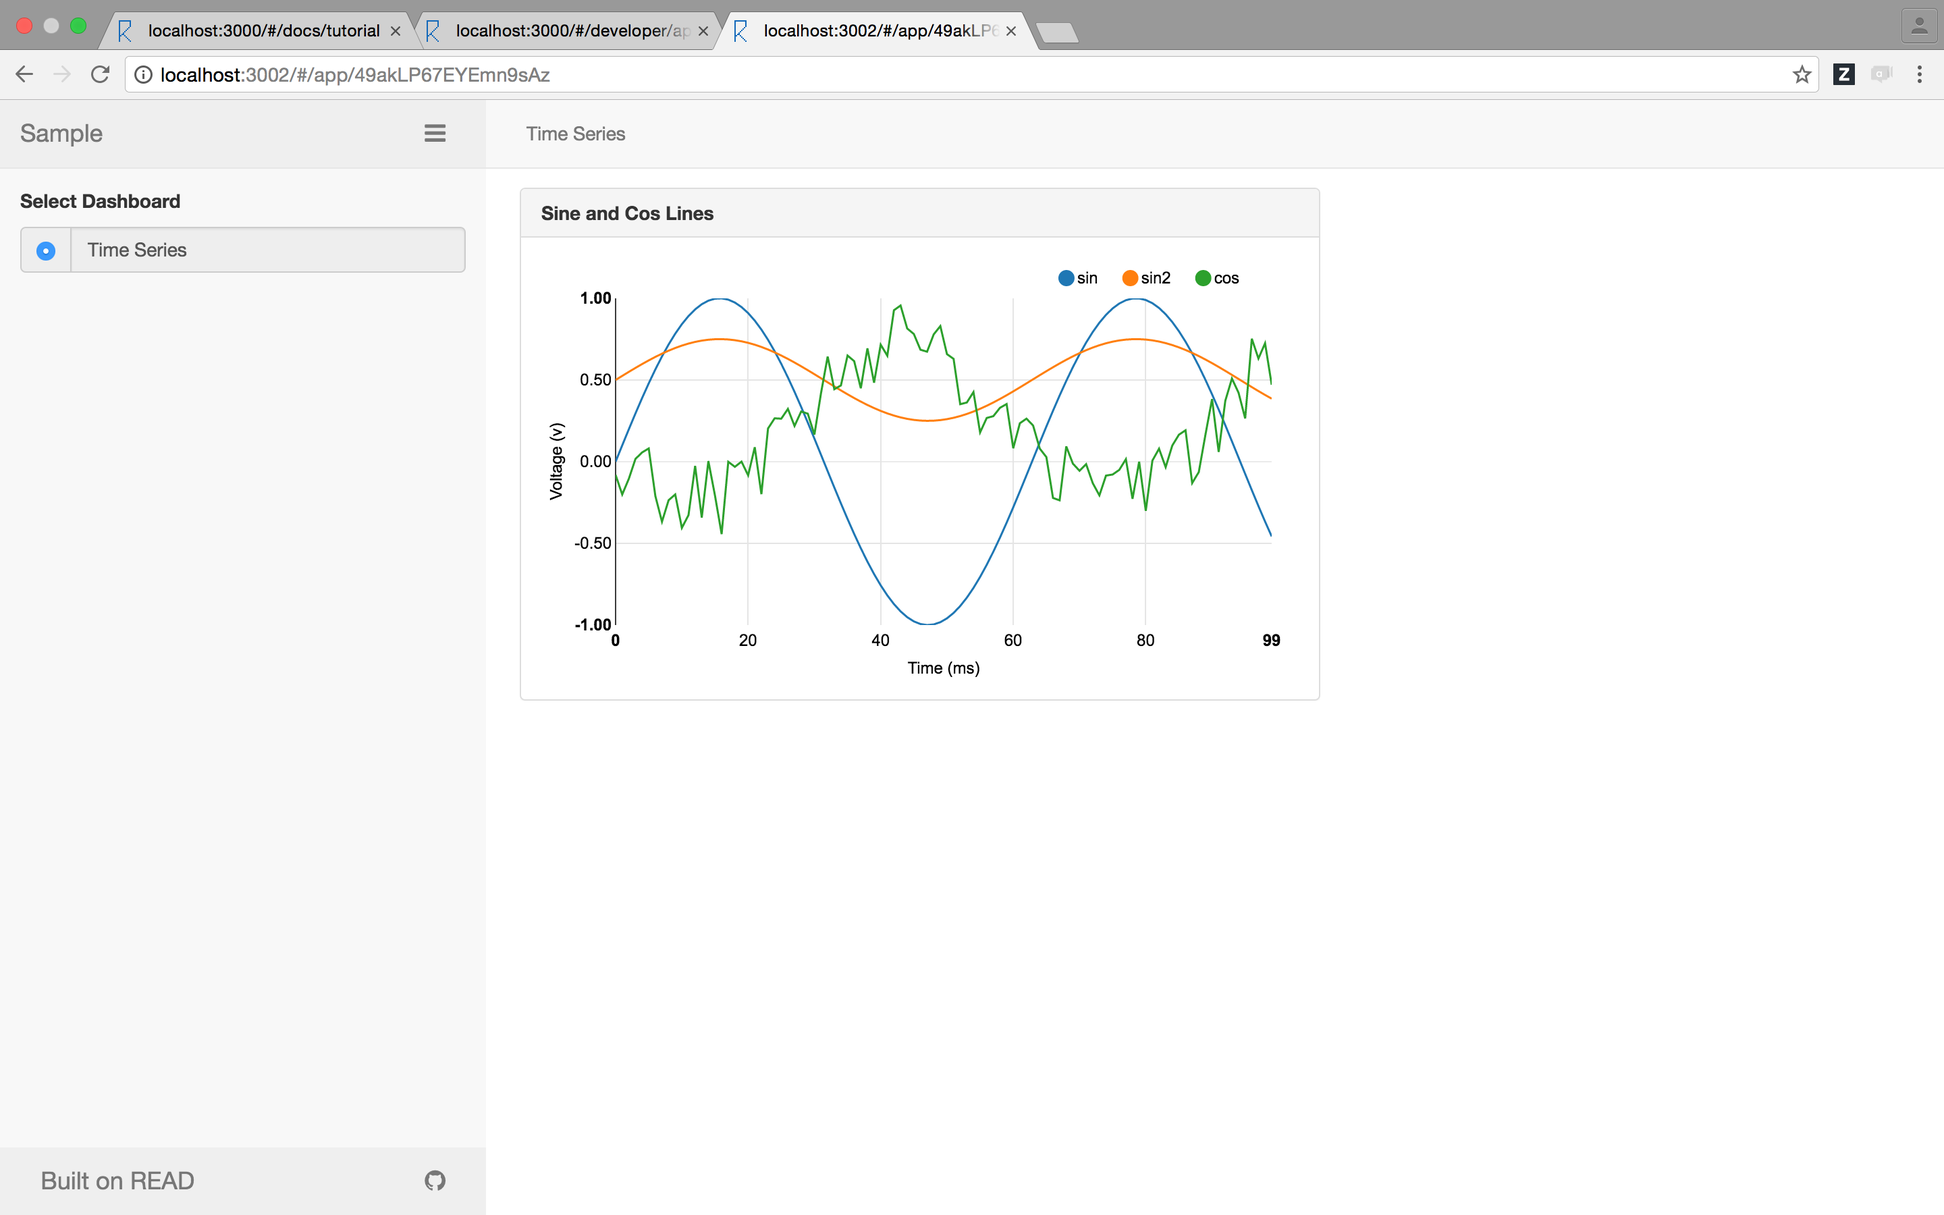
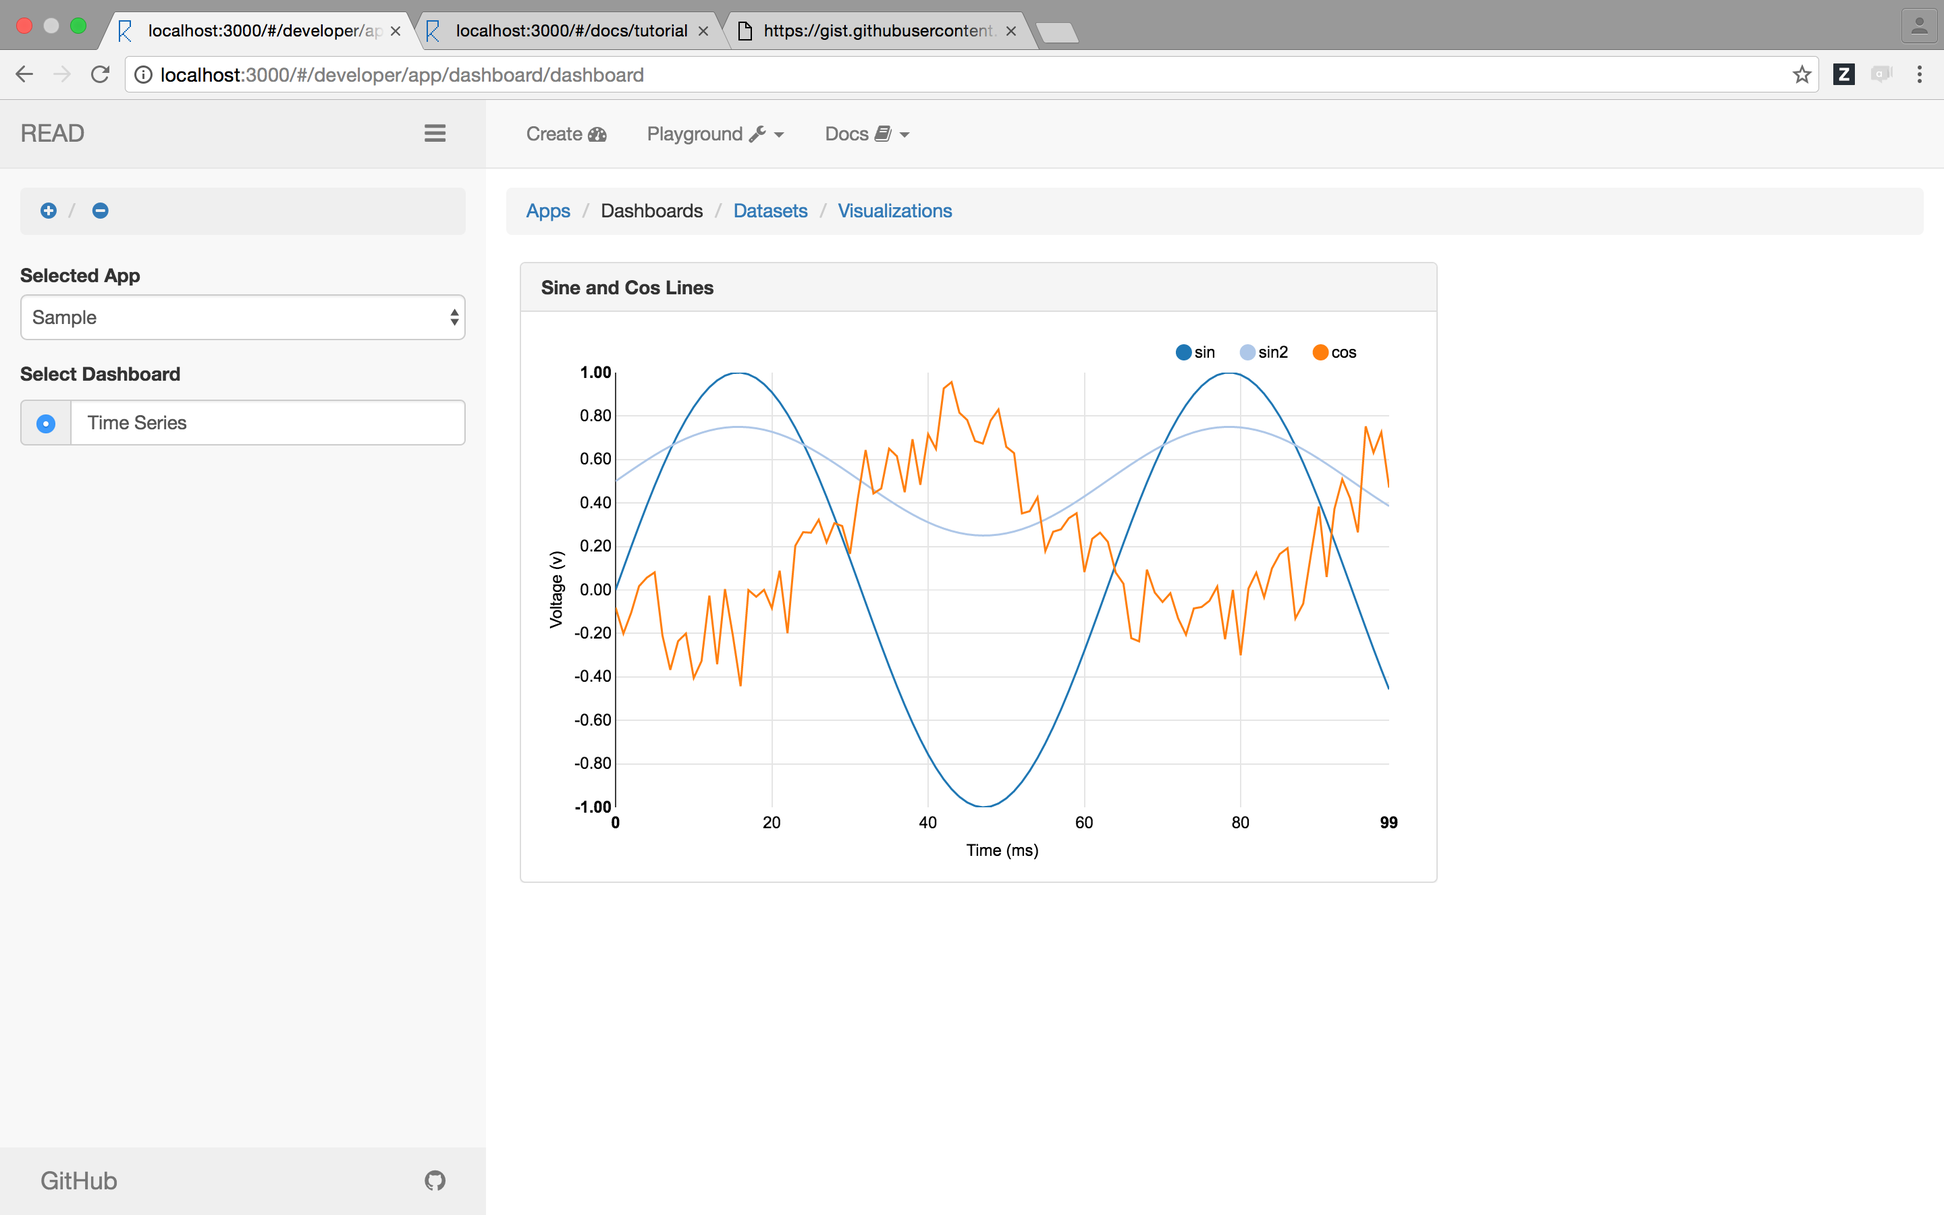
exercises

diff --git a/READ.meteor/imports/ui/pages/docs/tutorial/cars/createapp.html b/READ.meteor/imports/ui/pages/docs/tutorial/cars/createapp.html
@@ -1,41 +1,94 @@
 <h3>Variety</h3>
 <blockquote>
-  <p>In this section, we will work with more ways of visualizing and transforming data</p>
+  <p>In this section, we will explore more types of visualizations and data transforms</p>
 </blockquote>
 
 <div class="row">
-  <div class="col-sm-6 col-md-6">
-    <div class="thumbnail">
-      <a href="javascript:void(0)" ng-click="mainContentCtrl.openModel('/images/tutorial/cars/createapp.1.png')">
-        <img src="/images/tutorial/cars/createapp.1.png" alt="App Creation"></img>
-      </a>
-      <div class="caption">
-        <h4>Create Cars Dataset</h4>
-        <p class="word-wrap">Create <code>Cars</code> dashboard. Create <code>Cars</code> dataset within the dashboard
+  <div class="col-sm-6 col-md-3">
+      <div class="thumbnail">
+        <a href="javascript:void(0)" ng-click="mainContentCtrl.openModel('/images/tutorial/cars/createapp.1.png')">
+          <img src="/images/tutorial/cars/createapp.1.png" alt="Visualization Creation"></img>
+        </a>
+        <h4>Scatter Plot</h4>
+        <p class="word-wrap">Create <code>Variety</code> dashboard. Create <code>Cars</code> dataset within the dashboard
           using <a target="_blank" href="https://gist.githubusercontent.com/sriumcp/ebe66fbd4bb1f5b16feb0a9e7543f1b5/raw/5fda9a1537b75b1c059b9ce89ee309858dcba737/cars">this url</a>.
-        </p></div>
-    </div>
-  </div>
-
-  <div class="col-sm-6 col-md-6">
-    <div class="thumbnail">
-      <a href="javascript:void(0)" ng-click="mainContentCtrl.openModel('/images/tutorial/cars/createapp.2.png')">
-        <img src="/images/tutorial/cars/createapp.2.png" alt="Visualization Creation"></img>
-      </a>
-      <div class="caption">
-        <h4>Create Scatter Plot</h4>
+        </p>
         <p class="word-wrap">Create visualization <code>Horsepower vs. Weight</code> of type <strong>scatter</strong>.
           Use <a target="_blank" href="https://gist.githubusercontent.com/sriumcp/bcd3b4130cf2cd1bb5a2140d7d807d71/raw/779269b6c5f23824da9cc468d8e6278533d7033c/basicoptions.js">this</a> as the basic options for the chart and use
           <a target="_blank" href="https://gist.githubusercontent.com/sriumcp/b85d0c195617e35ff9463e6fb4cd34fd/raw/a93a90c98e3020844052e4d11c404aeb4a179bd1/advancedoptions.js">this</a> as the advanced options for the chart.
         </p>
       </div>
     </div>
+
+  <div class="col-sm-6 col-md-3">
+    <div class="thumbnail">
+      <a href="javascript:void(0)" ng-click="mainContentCtrl.openModel('/images/tutorial/cars/createapp.2.png')">
+        <img src="/images/tutorial/cars/createapp.2.png" alt="Parallel Coordinates"></img>
+      </a>
+      <div class="caption">
+        <h4>Parallel Coordinates</h4>
+        <p class="word-wrap">Create visualization <code>Filtered Cars</code> of type <strong>parallel coordinates</strong>.
+          Use the javascript object from <a target="_blank" href="https://gist.github.com/sriumcp/645553aef784e44665139b9d951632bb">this gist</a> as the advanced options for the chart.
+          Try cross filtering across dimensions by setting the ranges for each dimension.
+        </p>
+      </div>
+    </div>
   </div>
+
+  <div class="col-sm-6 col-md-3">
+    <div class="thumbnail">
+      <a href="javascript:void(0)" ng-click="mainContentCtrl.openModel('/images/tutorial/cars/createapp.3.png')">
+        <img src="/images/tutorial/cars/createapp.3.png" alt="Transform function"></img>
+      </a>
+      <div class="caption">
+        <h4>Candlestick and OHLC charts</h4>
+        <p class="word-wrap">Create dataset <code>HP over Years</code> of type <strong>transform</strong>.
+          Set <code>Cars</code> as its parent. Use function from <a target="_blank" href="https://gist.github.com/sriumcp/21db48f113b4726d011725000bfe98c7">this gist</a> as
+          the transform function. Leave state as disabled.</p>
+        <p class="word-wrap">Create Visualization <code>HP Candlesticks</code> of type
+          <strong>Candlesticks Bar</strong> using basic options
+          from <a href="https://gist.github.com/sriumcp/7d4cd7e2a22ff6a835cdc60d63045ba9" target="_blank">this gist</a>
+          and advanced options from
+          <a target="_blank" href="https://gist.github.com/sriumcp/f18443e67bbdeb6b2f2caddb9d919df6">this gist</a>.
+          Create Visualization <code>HP OHLC</code> of type <strong>OHLC Bar</strong>
+           using basic options from <a href="https://gist.github.com/sriumcp/7d4cd7e2a22ff6a835cdc60d63045ba9" target="_blank">this gist</a> and
+            advanced options from <a target="_blank" href="https://gist.github.com/sriumcp/c9a78aa0b9e465fa3a248a81da53a81d">this gist</a>.</p>
+      </div>
+    </div>
+  </div>
+
+  <div class="col-sm-6 col-md-3">
+    <div class="thumbnail">
+      <a href="javascript:void(0)" ng-click="mainContentCtrl.openModel('/images/tutorial/cars/createapp.4.png')">
+        <img src="/images/tutorial/cars/createapp.4.png" alt="Transform function"></img>
+      </a>
+      <div class="caption">
+        <h4>Pie and Donut charts</h4>
+        <p class="word-wrap">Create dataset <code>Cars by Year</code> of type <strong>transform</strong>.
+          Set <code>Cars</code> as its parent. Use function from
+          <a target="_blank" href="https://gist.github.com/sriumcp/9b9791f232ea93b0b423dfc57f44cf25">this gist</a>
+          as the transform function. Leave state as disabled. Similarly, create dataset <code>Cars by Origin</code> using
+          transform function from <a target="_blank" href="https://gist.github.com/sriumcp/4a284b2a5b9f1e89737ce048d48b6c96">this gist.</a></p>
+        <p class="word-wrap">Create Visualization <code>Cars by Year</code> of type <strong>Pie</strong> for the
+          <code>Cars by Year</code> dataset using basic options from
+          <a target="_blank" href="https://gist.github.com/sriumcp/e670d5e2ffeb93cfecf88896013b82e8">this gist</a> and
+        advanced options from
+        <a target="_blank" href="https://gist.github.com/sriumcp/3872291a8bafde7359a07ea7601f34cf">this gist</a>.</p>
+        <p class="word-wrap">Create Visualization <code>Cars by Origin</code> of type <strong>Pie</strong> for the
+          <code>Cars by Origin</code> dataset using basic options from
+          <a target="_blank" href="https://gist.github.com/sriumcp/f9f0a1e2921e74348e228a617f9ebeca">this gist</a>
+          and advanced options from
+          <a target="_blank" href="https://gist.github.com/sriumcp/eff81eabfae8b33505d377307f95490c">this gist</a>.</p>
+      </div>
+    </div>
+  </div>
+
 </div> <!-- row -->
 
 <nav>
    <ul class="pager">
      <li><a href="javascript:void(0)" ng-click="mainContentCtrl.switch('dynamicRealTimeCharts', 'dynamicCharts')">Previous</a></li>
+     <li><a href="javascript:void(0)" ng-click="mainContentCtrl.switch('cars', 'exercises')">Next</a></li>
    </ul>
 </nav>
 

diff --git a/READ.meteor/imports/ui/pages/docs/tutorial/dynamicrealtimecharts/dynamiccharts.html b/READ.meteor/imports/ui/pages/docs/tutorial/dynamicrealtimecharts/dynamiccharts.html
@@ -15,6 +15,7 @@
       </a>
       <div class="caption">
         <h4>Create Dynamic API</h4>
+        In a terminal:
         <ul>
           <li><code class="word-wrap">cd streamsx.visualization/READ.meteor/private/samples/nodered</code></li>
           <li><code class="word-wrap">node ../../../node_modules/node-red/red.js -s settings.js -u samples</code></li>
@@ -31,11 +32,10 @@
       </a>
       <div class="caption">
         <h4>Create Dynamic Dataset</h4>
-        <p>Create Dashboard <i class="fa fa-plus-circle"></i> and rename it as <code>Stateful Transform</code>.</p>
-        <p class="word-wrap">Create dataset <i class="fa fa-plus-circle"></i> and rename it as <code>Dynamic Sine</code>.
+        <p class="word-wrap">Create dashboard <code>Dynamic</code>. Create dataset <code>Dynamic Sine</code>.
           Switch the dataset type to <strong>URL</strong> and set the URL to
           <a href="http://localhost:9000/sampleapp/dynamicsine" target="_blank">
-            http://localhost:9000/sampleapp/dynamicsine</a>. Enable polling and set the
+            http://localhost:9000/sampleapp/dynamicsine</a>. <strong>Enable polling</strong> and set the
         polling interval to one second.
       </p></div>
     </div>
@@ -48,10 +48,10 @@
       </a>
       <div class="caption">
         <h4>Create Stateful Dataset</h4>
-        <p class="word-wrap">Create dataset <i class="fa fa-plus-circle"></i> and rename it as <code>Stateful Sine</code>.
+        <p class="word-wrap">Create dataset <code>Stateful Sine</code>.
           Switch the dataset type to <strong>Transform</strong> and set <code>Dynamic Sine</code> as the parent.
           Use <a href="https://gist.githubusercontent.com/sriumcp/6eeb5a9cd7fd5648b17721396e03f10d/raw/c6fa7d6f9746a6b0fff9f70ea72927deabe2d4da/statefultransform.js" target="_blank">this function</a>
-          as the transform function. Enable state and set empty array <code>[]</code> as the initial state.</p>
+          as the transform function. <strong>Enable state</strong> and set empty array <code>[]</code> as the initial state.</p>
       </div>
     </div>
   </div>
@@ -63,19 +63,30 @@
       </a>
       <div class="caption">
         <h4>Create Dynamic Visualization</h4>
-        <p class="word-wrap">Create visualization <i class="fa fa-plus-circle"></i> and rename it to <code>Stateful Sine</code>.
+        <p class="word-wrap">Create visualization <code>Stateful Sine</code>.
           Choose <code>Stateful Sine</code> as the dataset. Set the chart type as <strong>Multibar</strong>.
           Use <a target="_blank" href="https://gist.githubusercontent.com/sriumcp/d99573ac404510648889ee9502ee252f/raw/2615dc74390c571248abc00150ba35fae0127fe7/statefulsinebasic.js">this</a>
           as basic options for the visualization. Use
           <a target="_blank" href="https://gist.githubusercontent.com/sriumcp/17acf94e92db5557fa33e75e00c2b2aa/raw/578324d7d5d8f8c97d17bad265e2b443a6e1a15c/statefultransformadvanced.js">this</a> as advanced options.</p>
-          You should now see the visualization updating dynamically.
+          <p>You should now see the visualization updating dynamically.</p>
+          <p>Click on the <strong>Usage Info</strong> tab of a visualization to see the data format, basic options,
+            and advanced options expected by the chart type</p>
       </div>
     </div>
   </div>
 </div> <!-- row -->
 
-<h3>Key Concepts</h3>
+<h4>Exercise</h4>
 <ul class="list-group">
+  <li class="list-group-item">
+    Create more dynamic time series visualizations using chart types such as
+      <strong>Multi</strong> and <strong>Stacked Area</strong> using the <code>Stateful Sine</code> dataset.
+  </li>
+</ul>
+
+<h4>Key Concepts</h4>
+<ul class="list-group">
+  <li class="list-group-item">You can specify Javascript functions within a <strong>transform</strong> dataset to transform, combine, aggregate its inputs (parent datasets)</li>
   <li class="list-group-item">You can maintain state in a <strong>transform</strong> dataset by initializing it to any valid javascript
     object (i.e., array or object).
   </li>
@@ -83,6 +94,8 @@
   of the arguments are the latest data value(s) from the parent dataset(s). The transform function updates the state as well as returns the
   current data value of the transform dataset.</li>
   <li class="list-group-item">Stateful transforms are best used in conjuction with <strong>URL</strong> datasets that are polled.</li>
+  <li class="list-group-item">Refer to the <strong>Usage Info</strong> tab of a visualization to see the data format,
+    basic options, and advanced options expected by the chart type</li>
 </ul>
 
 <nav>

diff --git a/READ.meteor/imports/ui/pages/docs/tutorial/timeseries/timeseriescharts.html b/READ.meteor/imports/ui/pages/docs/tutorial/timeseries/timeseriescharts.html
@@ -1,6 +1,6 @@
 <h3>Time Series Charts</h3>
 <blockquote>
-  <p>In this section, we will use a variety of chart types available in READ to visualize time-series data.</p>
+  <p>In this section, we will explore a variety of chart types available in READ to visualize time-series data.</p>
 </blockquote>
 
 <div class="row">
@@ -12,7 +12,7 @@
     <div class="caption">
       <h4>Create Multibar</h4>
       <p class="word-wrap">Switch to the <em>Visualizations</em> tab.
-        Create visualization <i class="fa fa-plus-circle"></i> and rename it to <code>Sine and Cos Bars</code>.
+        Create visualization <code>Sine and Cos Bars</code>.
         Switch the chart type to <strong>Multibar</strong>.</p>
     </div>
   </div>
@@ -24,11 +24,13 @@
       <img src="/images/tutorial/timeseries/timeseriescharts.2.png" alt="Time Series Charts"></img>
     </a>
     <div class="caption">
-      <h4>Create 5 more Visualizations</h4>
+      <h4>Create 7 more Visualizations</h4>
       <p>Create <code>Sine and Cos Area</code>, <code>SC Line Focus</code>,
-        <code>SC Bars Focus</code>, <code>Sine and Cos Spark</code>, and <code>SC Multi</code> visualizations
+        <code>SC Bars Focus</code>, <code>Sine and Cos Spark</code>, <code>SC Multi</code>, <code>SC Cumulative</code>
+        and <code>SC Historic</code> visualizations
         using the <strong>Stacked Area</strong>, <strong>Line with Focus</strong>, <strong>Line Bar with Focus</strong>,
-        <strong>Spark Line</strong>, and <strong>Multi</strong> chart types respectively.</p>
+        <strong>Spark Line</strong>, <strong>Multi</strong>, <strong>Cumulative Line</strong>,
+        and <strong>Historic Bar</strong> chart types respectively.</p>
     </div>
   </div>
 </div>
@@ -42,7 +44,6 @@
       <h4>Layout</h4>
       <p>Switch to the <em>Dashboards</em> tab and layout your dashboard by
         resizing and repositioning the visualizations.</p>
-      <p>You can toggle the sidebar using <i class="fa fa-bars"></i> on top of the sidebar.</p>
     </div>
   </div>
 </div>

diff --git a/READ.meteor/imports/ui/pages/docs/tutorial/cars/exercises.html b/READ.meteor/imports/ui/pages/docs/tutorial/cars/exercises.html
@@ -1,0 +1,36 @@
+<h3>Exercises</h3>
+<blockquote>
+  <p>In this section, you will use the knowledge gained from previous sections to access public APIs, create
+  datasets, visualizations, and dashboards of your choice.</p>
+</blockquote>
+
+<div class="list-group">
+  <div class="list-group-item">
+    <h4 class="list-group-item-heading">The Movie DB</h4>
+    <p class="list-group-item-text">Register at <a target="_blank" href="https://www.themoviedb.org/">
+    The Movie Database</a>. Request an API key for educational purposes. Create a variety of datasets using
+  TMDB's public APIs. An example of a URL that you can use for dataset creation is
+  https://api.themoviedb.org/3/movie/popular?api_key=your_tmdb_api_key&language=en-US, which
+  returns some currently popular movies. Create a variety of visualizations using these datasets.</p>
+</div>
+
+<div class="list-group-item">
+  <h4 class="list-group-item-heading">BlueMix</h4>
+  <p class="list-group-item-text">Register at <a target="_blank" href="https://www.bluemix.net/">
+  BlueMix</a> for a free account.
+  Create the Insights for Twitter service. Use this service to analyze tweets and sentiments, and aggregate sentiments
+  about one of the popular movies from TMDB. Visualize the distribution of these sentiments.</p>
+</div>
+</div>
+
+<nav>
+   <ul class="pager">
+     <li><a href="javascript:void(0)" ng-click="mainContentCtrl.switch('cars', 'createApp')">Previous</a></li>
+   </ul>
+</nav>
+
+<!-- <nav>
+   <ul class="pager">
+     <li><a href="javascript:void(0)" ng-click="mainContentCtrl.readState.sidebar.tutorial = 'timeSeriesCharts'">Next</a></li>
+   </ul>
+</nav> -->

diff --git a/READ.meteor/imports/ui/pages/docs/tutorial/timeseries/createapp.html b/READ.meteor/imports/ui/pages/docs/tutorial/timeseries/createapp.html
@@ -14,13 +14,12 @@
       </a>
       <div class="caption">
         <h4>Create App</h4>
-        <p>Navigate to Dashboard <i class="fa fa-dashboard"></i>. Switch to the <em>Apps</em> tab.
-          Create App <i class="fa fa-plus-circle"></i>.
-          Double-click on the name of the app, enter <code>Sample</code> as its new name, and click on the
-          <strong>Rename</strong> button. Uncheck the private button to make this app public.</p>
+        <p>Navigate to Create <i class="fa fa-dashboard"></i>. Switch to the <em>Apps</em> tab.
+          Create App <i class="fa fa-plus-circle"></i> and rename it as <code>Sample</code>.</p>
       </div>
     </div>
   </div>
+
 
   <div class="col-sm-6 col-md-3">
     <div class="thumbnail">
@@ -62,9 +61,6 @@
           Create visualization <i class="fa fa-plus-circle"></i> and rename it to <code>Sine and Cos Lines</code>.
           Switch to the <em>Dashboards</em> tab and resize the visualization
           appropriately by expanding with bottom right corner.</p>
-        <p>You can also view your app and dashboard using the <strong>public link for your app</strong> available
-          in the <em>Apps</em> tab of your app. To share your READ dashboards publicly,
-          refer to <a target="_blank" href="http://localhost:3000/#/docs/helptopics">this help topic</a>.</p>
       </div>
     </div>
   </div>

diff --git a/READ.meteor/imports/ui/pages/docs/tutorial/sidenav.html b/READ.meteor/imports/ui/pages/docs/tutorial/sidenav.html
@@ -13,11 +13,11 @@
         <li><a href="javascript:void(0)" ng-click="sideNavCtrl.switch('dynamicRealTimeCharts', 'dynamicCharts')">Dynamic Visualizations</a></li>
       </ul>
     </li>
-    <li><a href="javascript:void(0)" ng-click="sideNavCtrl.switch('cars', 'createApp')">Variety</a></li>
+    <li><a href="javascript:void(0)" ng-click="sideNavCtrl.switch('cars', 'createApp')">Other Visualizations</a></li>
     <li>
       <ul class="nav second-level">
-        <li><a href="javascript:void(0)" ng-click="sideNavCtrl.switch('cars', 'createApp')">Various Visualizations</a></li>
-        <li><a href="javascript:void(0)" ng-click="sideNavCtrl.switch('cars', 'doItYourself')">Exercises</a></li>
+        <li><a href="javascript:void(0)" ng-click="sideNavCtrl.switch('cars', 'createApp')">Other Visualizations</a></li>
+        <li><a href="javascript:void(0)" ng-click="sideNavCtrl.switch('cars', 'exercises')">Exercises</a></li>
       </ul>
     </li>
   </ul>

diff --git a/READ.meteor/imports/ui/partials/common/headernav/headernav.html b/READ.meteor/imports/ui/partials/common/headernav/headernav.html
@@ -22,7 +22,7 @@
           </a>
         </li>
 
-        <li><a ui-sref="read.developer.app.dashboard.app"><span class="hidden-xs hidden-sm">Dashboard</span> <i class="fa fa-dashboard"></i></a></li>
+        <li><a ui-sref="read.developer.app.dashboard.app"><span class="hidden-xs hidden-sm">Create</span> <i class="fa fa-dashboard"></i></a></li>
 
         <li class="dropdown">
           <a class="dropdown-toggle" data-toggle="dropdown" role="button" aria-haspopup="true" aria-expanded="false" href="javascript:void(0)">

diff --git a/READ.meteor/imports/ui/pages/docs/tutorial/maincontent.js b/READ.meteor/imports/ui/pages/docs/tutorial/maincontent.js
@@ -8,6 +8,7 @@ import './timeseries/timeseriescharts.html';
 import './dynamicrealtimecharts/dynamiccharts.html';
 
 import './cars/createapp.html';
+import './cars/exercises.html';
 
 export const tutorialMainContentCtrl = ['$scope', 'readState', '$uibModal', function ($scope, readState, $uibModal) {
   this.readState = readState;

diff --git a/READ.meteor/imports/ui/pages/docs/tutorial/cars/maincontent.html b/READ.meteor/imports/ui/pages/docs/tutorial/cars/maincontent.html
@@ -1,2 +1,5 @@
 <div ng-if="mainContentCtrl.readState.sidebar.tutorial === 'createApp'" ng-include="'/imports/ui/pages/docs/tutorial/cars/createapp.html'">
 </div>
+
+<div ng-if="mainContentCtrl.readState.sidebar.tutorial === 'exercises'" ng-include="'/imports/ui/pages/docs/tutorial/cars/exercises.html'">
+</div>
